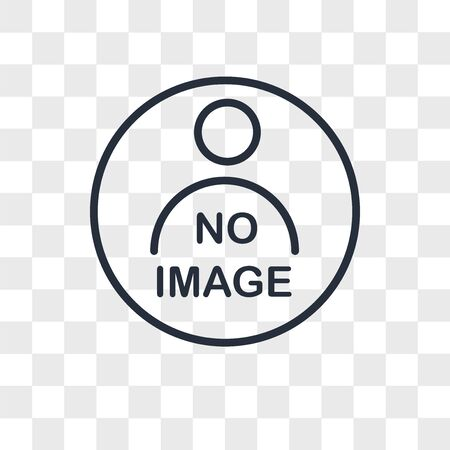
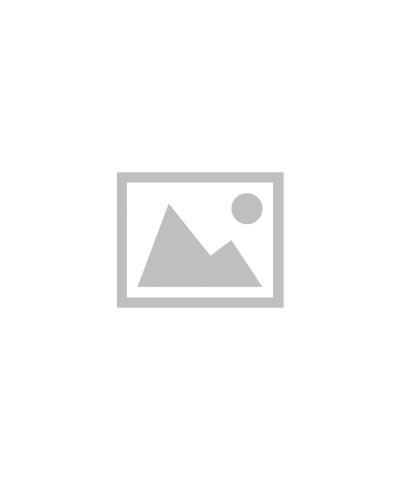
chuẩn bị cho báo cáo giữa kỳ

Changed region(s): [[0.18, 0.1556, 0.81, 0.7778]]

diff --git a/CinemaManagement/CinemaManagement/Views/Staff/TicketWindow/TicketWindow.xaml b/CinemaManagement/CinemaManagement/Views/Staff/TicketWindow/TicketWindow.xaml
@@ -169,9 +169,9 @@
         </StackPanel>
         <Grid Grid.Row="1">
             <Grid.ColumnDefinitions>
-                <ColumnDefinition Width="900" />
+                <ColumnDefinition />
                 <ColumnDefinition Width="70" />
-                <ColumnDefinition Width="470" />
+                <ColumnDefinition Width="380" />
             </Grid.ColumnDefinitions>
 
             <ListBox ItemsSource="{Binding ListSeat1}"
@@ -185,7 +185,8 @@
                 </ListBox.ItemContainerStyle>
                 <ListBox.ItemsPanel>
                     <ItemsPanelTemplate>
-                        <UniformGrid Columns="14" FlowDirection="RightToLeft" />
+                        <UniformGrid Columns="14"
+                                     FlowDirection="RightToLeft" />
                     </ItemsPanelTemplate>
                 </ListBox.ItemsPanel>
                 <ListBox.ItemTemplate>
@@ -194,19 +195,20 @@
                                   BorderThickness="2"
                                   CornerRadius="3"
                                   Margin="0.5"
-                                  Width="35"
-                                  Height="35">
+                                  Width="38"
+                                  Height="38">
                             <Label Content="{Binding SeatPosition}"
                                    Background="Transparent"
                                    Foreground="black"
-                                   FontSize="10"
+                                   FontSize="11"
+                                   FontWeight="Bold"
                                    x:Name="lbl1"
                                    VerticalContentAlignment="Center"
                                    HorizontalContentAlignment="Center">
                                 <i:Interaction.Triggers>
                                     <i:EventTrigger EventName="MouseLeftButtonUp">
                                         <i:InvokeCommandAction Command="{Binding ElementName=SeatListBox1, Path=DataContext.SelectedSeatCM}"
-                                                               CommandParameter="{Binding ElementName=lbl1}"/>
+                                                               CommandParameter="{Binding ElementName=lbl1}" />
                                     </i:EventTrigger>
                                 </i:Interaction.Triggers>
                             </Label>
@@ -235,13 +237,14 @@
                         <Border   BorderBrush="Green"
                                   BorderThickness="2"
                                   CornerRadius="3"
-                                  Width="35"
-                                  Height="35">
+                                  Width="38"
+                                  Height="38">
                             <Label Content="{Binding SeatPosition}"
                                    x:Name="lbl2"
                                    Background="Transparent"
                                    Foreground="black"
-                                   FontSize="10"
+                                   FontWeight="Bold"
+                                   FontSize="11"
                                    VerticalContentAlignment="Center"
                                    HorizontalContentAlignment="Center">
                                 <i:Interaction.Triggers>
@@ -285,7 +288,7 @@
                 <StackPanel Orientation="Horizontal"
                             Margin="30,0,0,0">
                     <Rectangle Stroke="Green" />
-                    <TextBlock Text="Ghế thường"
+                    <TextBlock Text="Ghế trống"
                                Margin="10,10,0,0" />
                 </StackPanel>
                 <StackPanel Orientation="Horizontal"
@@ -342,7 +345,7 @@
                                 </Style>
                             </StackPanel.Resources>
                             <TextBlock Text="{Binding txtFilm}"
-                                       x:Name="filmName"/>
+                                       x:Name="filmName" />
                             <TextBlock Text="2D"
                                        Margin="0 10 0 0" />
                             <TextBlock Text="C18"
@@ -381,8 +384,8 @@
                             <TextBlock Text="Rạp chiếu phim Hoa Sen" />
                             <TextBlock x:Name="_ShowTimeTicket"
                                        Margin="0 10 0 0" />
-                            <TextBlock Margin="0 10 0 0" 
-                                       x:Name="_ShowRomTicket"/>
+                            <TextBlock Margin="0 10 0 0"
+                                       x:Name="_ShowRomTicket" />
                         </StackPanel>
                         <StackPanel Width="170"
                                     Margin="50 10 10 10"

diff --git a/CinemaManagement/CinemaManagement/Views/Staff/MainStaffWindow.xaml b/CinemaManagement/CinemaManagement/Views/Staff/MainStaffWindow.xaml
@@ -20,7 +20,14 @@
         Width="1440"
         WindowStyle="None"
         WindowStartupLocation="CenterScreen">
+    <i:Interaction.Triggers>
+        <i:EventTrigger EventName="Loaded">
+            <i:InvokeCommandAction Command="{Binding LoadMainStaffCM}"
+                                 />
+        </i:EventTrigger>
+    </i:Interaction.Triggers>
     <Grid>
+       
         <Grid.ColumnDefinitions>
             <ColumnDefinition Width="140" />
             <ColumnDefinition Width="1300" />
@@ -201,7 +208,7 @@
                                            TextWrapping="Wrap"
                                            Foreground="White"
                                            Margin="300 25 0 0"
-                                           Padding="0"/>
+                                           Padding="0" />
                                 <Button Background="Transparent"
                                         BorderBrush="Transparent"
                                         Foreground="White"
@@ -210,6 +217,18 @@
                                                              Width="60"
                                                              Height="60" />
                                 </Button>
+                                <materialDesign:PopupBox DockPanel.Dock="Right"
+                                                         PlacementMode="BottomAndAlignRightEdges"
+                                                         Foreground="White">
+                                    <StackPanel Orientation="Vertical">
+                                        <Button x:Name="signout"
+                                                Content="Thông tin tài khoản" />
+
+                                        <Button Content="Đăng xuất"
+                                                Command="{Binding SignoutCM}"
+                                                CommandParameter="{Binding ElementName=Main_Staff}" />
+                                    </StackPanel>
+                                </materialDesign:PopupBox>
                             </StackPanel>
                         </StackPanel>
                     </Grid>
@@ -264,7 +283,8 @@
                                            Width="210"
                                            TextAlignment="Left"
                                            HorizontalAlignment="Left"
-                                           TextWrapping="Wrap" />
+                                           TextWrapping="Wrap"
+                                           Margin="0,10,0,0" />
                                 <TextBlock Text="{Binding ReleaseYear}"
                                            FontSize="15"
                                            Foreground="#FFD6C6C3"

diff --git a/CinemaManagement/CinemaManagement/Views/Admin/QuanLyNhanVienPage/XoaNhanVienWindow.xaml b/CinemaManagement/CinemaManagement/Views/Admin/QuanLyNhanVienPage/XoaNhanVienWindow.xaml
@@ -10,7 +10,7 @@
         TextElement.Foreground="{DynamicResource MaterialDesignBody}"
         TextElement.FontWeight="Regular"
         TextElement.FontSize="13"
-        TextOptions.TextFormattingMode="Ideal" 
+        TextOptions.TextFormattingMode="Ideal"
         TextOptions.TextRenderingMode="Auto"
         Background="{DynamicResource MaterialDesignPaper}"
         FontFamily="{DynamicResource MaterialDesignFont}"
@@ -19,20 +19,21 @@
         Name="XoaNV"
         ResizeMode="NoResize"
         DataContext="{StaticResource StaffManagementVM}"
-        Title="XoaNhanVienWindow" Height="200" Width="350">
+        Title="XoaNhanVienWindow"
+        Height="200"
+        Width="350">
     <i:Interaction.Triggers>
         <i:EventTrigger EventName="MouseLeftButtonDown">
             <i:InvokeCommandAction Command="{Binding MouseMoveCommand}"
-                                   CommandParameter="{Binding ElementName=XoaNV}"/>
+                                   CommandParameter="{Binding ElementName=XoaNV}" />
         </i:EventTrigger>
     </i:Interaction.Triggers>
     <Grid>
         <Border BorderThickness="3"
-                BorderBrush="#18ffff">
+                BorderBrush="#0c70b6">
             <Border.Effect>
                 <DropShadowEffect ShadowDepth="0"
-                                  BlurRadius="5"
-                                  Color="#18ffff" />
+                                  BlurRadius="5" />
             </Border.Effect>
             <materialDesign:Card>
                 <Grid>
@@ -62,15 +63,15 @@
                             </Style>
                         </Grid.Resources>
                         <Button Content="Xác nhận"
-                                Margin="0 0 110 10"
+                                Margin="0 0 10 10"
                                 Command="{Binding DeleteStaffCommand}"
                                 CommandParameter="{Binding ElementName=XoaNV}"
-                                Background="#64dd17" />
+                                Background="#0c70b6" />
                         <Button Content="Hủy"
-                                Margin="0 0 10 10"
+                                Margin="0 0 110 10"
                                 Command="{Binding CloseCommand}"
                                 CommandParameter="{Binding ElementName=XoaNV}"
-                                Background="#ff6f00" />
+                                Background="OrangeRed" />
                     </Grid>
                 </Grid>
             </materialDesign:Card>

diff --git a/CinemaManagement/CinemaManagement/Views/Admin/MovieManagement/MovieManagement.xaml b/CinemaManagement/CinemaManagement/Views/Admin/MovieManagement/MovieManagement.xaml
@@ -72,14 +72,14 @@
                     </i:Interaction.Triggers>
                     <ListView.View>
                         <GridView>
-                            <GridViewColumn Header="ID">
+                            <!--<GridViewColumn Header="ID">
                                 <GridViewColumn.CellTemplate>
                                     <DataTemplate>
                                         <TextBlock  Text="{Binding Id}"
                                                     FontSize="18" />
                                     </DataTemplate>
                                 </GridViewColumn.CellTemplate>
-                            </GridViewColumn>
+                            </GridViewColumn>-->
                             <GridViewColumn Header="Tên phim">
                                 <GridViewColumn.CellTemplate>
                                     <DataTemplate>
@@ -92,7 +92,7 @@
                                 <GridViewColumn.CellTemplate>
                                     <DataTemplate>
                                         <TextBlock Text="{Binding MovieType}"
-                                                   Margin="10,0,0,0"
+                                                   Margin="30,0,0,0"
                                                    FontSize="18" />
                                     </DataTemplate>
                                 </GridViewColumn.CellTemplate>
@@ -102,7 +102,7 @@
                                 <GridViewColumn.CellTemplate>
                                     <DataTemplate>
                                         <TextBlock Text="{Binding RunningTime}"
-                                                   Margin="10,0,0,0"
+                                                   Margin="40,0,0,0"
                                                    FontSize="18" />
                                     </DataTemplate>
                                 </GridViewColumn.CellTemplate>

diff --git a/CinemaManagement/CinemaManagement/Views/Staff/MovieScheduleWindow/MovieScheduleWindow.xaml b/CinemaManagement/CinemaManagement/Views/Staff/MovieScheduleWindow/MovieScheduleWindow.xaml
@@ -75,12 +75,13 @@
                     CornerRadius="8"
                     Width="150"
                     Height="35"
-                    Margin="200,0,0,0">
+                    Margin="360,0,0,0">
                 <TextBlock x:Name="_ShowDate"
                            Width="150"
                            Height="40"
                            FontSize="20"
-                           TextAlignment="Center" />
+                           TextAlignment="Center" 
+                           Margin="0,5,0,0"/>
             </Border>
         </StackPanel>
         <StackPanel DockPanel.Dock="Left"

diff --git a/CinemaManagement/CinemaManagement/Views/Admin/MovieManagement/AddMovieWindow.xaml b/CinemaManagement/CinemaManagement/Views/Admin/MovieManagement/AddMovieWindow.xaml
@@ -68,7 +68,7 @@
                                 <Label Content="Tên phim"
                                        FontSize="20"
                                        Height="36" />
-                                <TextBox Padding="0"
+                                <TextBox Padding="0 17 0 0"
                                          VerticalAlignment="Top"
                                          AcceptsReturn="True"
                                          TextWrapping="Wrap"

diff --git a/CinemaManagement/CinemaManagement/DTOs/MovieDTO.cs b/CinemaManagement/CinemaManagement/DTOs/MovieDTO.cs
@@ -1,6 +1,7 @@
 using CinemaManagement.Utils;
 using System;
 using System.Collections.Generic;
+using System.IO;
 using System.Windows.Media;
 
 namespace CinemaManagement.DTOs
@@ -33,13 +34,32 @@ namespace CinemaManagement.DTOs
             set
             {
                 _image = value;
-                if (value != null)
-                    ImgSource = Helper.GetImageSource(_image);
-                else
-                    ImgSource = null;
             }
         }
-        public ImageSource ImgSource { get; set; }
+
+        public ImageSource _imgSource;
+        public ImageSource ImgSource
+        {
+            get
+            {
+                if (_imgSource is null)
+                {
+                    if (File.Exists(Helper.GetMovieImgPath(_image)))
+                    {
+                        _imgSource = Helper.GetImageSource(_image);
+                    }
+                    else
+                    {
+                        _imgSource = Helper.GetImageSource("null.jpg");
+                    }
+                }
+                return _imgSource;
+            }
+            set
+            {
+                _imgSource = value;
+            }
+        }
 
     }
 }

diff --git a/CinemaManagement/CinemaManagement/ViewModel/StaffViewModel/MainStaffViewModel.cs b/CinemaManagement/CinemaManagement/ViewModel/StaffViewModel/MainStaffViewModel.cs
@@ -88,6 +88,7 @@ namespace CinemaManagement.ViewModel
         public ICommand CategoryFilmLabel { get; set; }
         public ICommand LoadMainStaffCM { get; set; }
         public ICommand LoadMovieScheduleWindow { get; set; }
+        public ICommand SignoutCM { get; set; }
 
         private string _UserName;
 
@@ -161,10 +162,17 @@ namespace CinemaManagement.ViewModel
                     w.ShowDialog();
                 }
             });
-            LoadMainStaffCM = new RelayCommand<ListBox>((p) => { return true; }, (p) =>
+            LoadMainStaffCM = new RelayCommand<object>((p) => { return true; }, (p) =>
             {
                 LoadMainListBox(0);
                 SetCurrentDate = GetCurrentDate.ToString();
+            });
+            SignoutCM = new RelayCommand<Window>((p) => { return true; }, (p) =>
+            {
+                p.Hide();
+                LoginWindow w1 = new LoginWindow();
+                w1.ShowDialog();
+                p.Close();
             });
         }
         public void LoadCurrentDate()

diff --git a/CinemaManagement/CinemaManagement/ViewModel/AdminVM/MovieManagementVM/Edit.MovieViewModel.cs b/CinemaManagement/CinemaManagement/ViewModel/AdminVM/MovieManagementVM/Edit.MovieViewModel.cs
@@ -47,10 +47,10 @@ namespace CinemaManagement.ViewModel.AdminVM.MovieManagementVM
                     extension = SelectedItem.Image.Split('.')[1];
                 imgName = Helper.CreateImageName(movieName);
                 imgfullname = Helper.CreateImageFullName(imgName, extension);
-                
+
                 List<GenreDTO> temp = new List<GenreDTO>();
                 temp.Add(movieGenre);
-               
+
                 MovieDTO movie = new MovieDTO
                 {
                     Id = int.Parse(movieID),
@@ -86,7 +86,7 @@ namespace CinemaManagement.ViewModel.AdminVM.MovieManagementVM
                     }
                     else
                     {
-                        File.Copy(filepath, Helper.GetMovieImgPath(movie.Image),true);
+                        File.Copy(filepath, Helper.GetMovieImgPath(movie.Image), true);
                     }
 
                     LoadMovieListView(Operation.UPDATE, movie);

diff --git a/CinemaManagement/CinemaManagement/ViewModel/StaffViewModel/TicketVM/TicketWindowViewModel.cs b/CinemaManagement/CinemaManagement/ViewModel/StaffViewModel/TicketVM/TicketWindowViewModel.cs
@@ -133,11 +133,13 @@ namespace CinemaManagement.ViewModel.StaffViewModel.TicketVM
                         {
                             p.Background = new SolidColorBrush(Colors.Transparent);
                             WaitingSeatList(p.Content.ToString());
+                            p.Foreground = new SolidColorBrush(Colors.Black);
                             return;
                         }
 
                     }
                     p.Background = new SolidColorBrush(Colors.Green);
+                    p.Foreground = new SolidColorBrush(Colors.White);
                     WaitingSeatList(p.Content.ToString());
                 }
               

diff --git a/CinemaManagement/CinemaManagement/ViewModel/AdminVM/MovieManagementVM/Add.MovieViewModel.cs b/CinemaManagement/CinemaManagement/ViewModel/AdminVM/MovieManagementVM/Add.MovieViewModel.cs
@@ -13,7 +13,7 @@ namespace CinemaManagement.ViewModel.AdminVM.MovieManagementVM
         public ICommand LoadAddMovieCM { get; set; }
         public void SaveMovieFunc(Window p)
         {
-            if (movieID == null && filepath != null && IsValidData())
+            if (filepath != null && IsValidData())
             {
                 imgName = Helper.CreateImageName(movieName);
                 imgfullname = Helper.CreateImageFullName(imgName, extension);

diff --git a/CinemaManagement/CinemaManagement/ViewModel/AdminVM/StaffManagementVM/StaffManagementViewModel.cs b/CinemaManagement/CinemaManagement/ViewModel/AdminVM/StaffManagementVM/StaffManagementViewModel.cs
@@ -313,7 +313,7 @@ namespace CinemaManagement.ViewModel.AdminVM.StaffManagementVM
 
             if (oper == Operation.CREATE || oper == Operation.UPDATE_PASSWORD)
             {
-                if (MatKhau is null)
+                if (string.IsNullOrEmpty(MatKhau))
                 {
                     return (false, "Vui lòng nhập mật khẩu");
                 }
